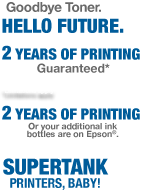
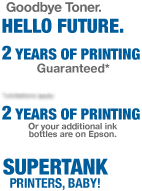
updates

Changed region(s): [[0.169, 0.6806, 0.8451, 0.733]]

diff --git a/demopage/holiday/img/728x90_holiday/index.html b/demopage/holiday/img/728x90_holiday/index.html
@@ -1,8 +1,8 @@
 <!DOCTYPE html>
 <html lang="en">
 <head>
-	<meta name="ad.size" content="width=320,height=50">
-	<title>320x50 Epson</title>
+	<meta name="ad.size" content="width=728,height=90">
+	<title>728x90 Epson</title>
 	<!--Include for Doubleclick Ads-->
     <!-- <script src="https://s0.2mdn.net/ads/studio/Enabler.js" type="text/javascript"></script> -->
     <script type="text/javascript" src="https://cdnjs.cloudflare.com/ajax/libs/gsap/latest/TweenLite.min.js"></script>
@@ -21,8 +21,8 @@
 #linkLayer{
 			left:0px;
 			top:0px;
-			width:320px;
-			height:50px;
+			width:728px;
+			height:90px;
 			display:block;
 			position:absolute;
 			overflow: hidden;
@@ -36,8 +36,8 @@
 			margin-top:0px;
 			position:absolute;
 			overflow:hidden;
-			width:326px;
-			height:48px;
+			width:726px;
+			height:88px;
 			top:0px;
 			left:0px;
 			margin:auto;
@@ -274,12 +274,12 @@
 				   <!-- <div id="TEMP"><img src="temp_03.jpg"></div> -->
 				   <!--HTML ELEMENTS HERE-->	   
 				   
-				   <!-- <div id="epsonPrinter"><img src="epson_printer_full.png"></div> -->
+				   <div id="epsonPrinter"><img src="epson_printer_full.png"></div>
 				   
 				   <div id="txt_EcoTankPrinters"><img src="txt_EcoTankPrinters.png"></div>
-				   <!-- <div id="txt_justFill"><img src="txt_justFill.png"></div> -->
+				   <div id="txt_justFill"><img src="txt_justFill.png"></div>
 				   			   
-				   <!-- <div id="inkBottles"><img src="inkBottles.png"></div>  -->
+				   <div id="inkBottles"><img src="inkBottles.png"></div> 
 				   <div id="inkCartridge_frame"><img src="inkCartridge_frame.png"></div> 
 				  		   
 				    <div id="epson_lg"><img src="epsonLogoWithTag.png"></div>
